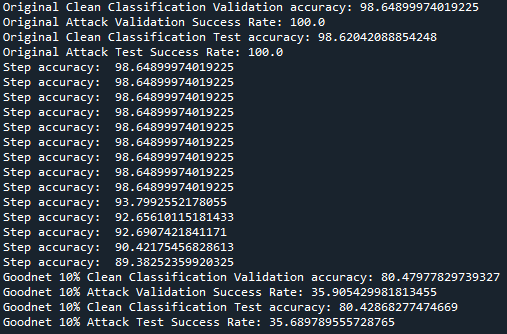
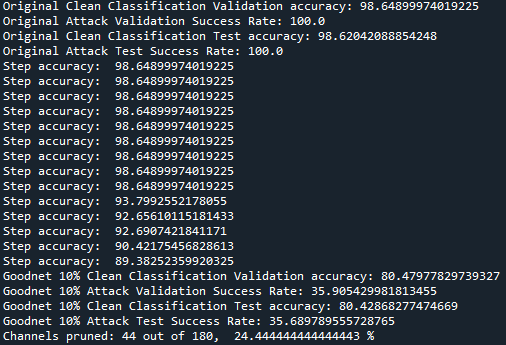
Add files via upload

diff --git a/goodnet.py b/goodnet.py
@@ -87,6 +87,8 @@ def main():
             del(layer_curr)
             del(labels_curr)
             it_2 = it_2-1
+            if it_2 == -1:
+                break
         cl_label2 = np.argmax(gn_x2.predict(cl_x_test), axis=1)
         clean_accuracy2 = np.mean(np.equal(cl_label2, cl_y_test))*100
         print(f"Goodnet {goodnet_percentage}% Clean Classification Validation accuracy: {clean_accuracy2}")
@@ -115,6 +117,7 @@ def main():
         it_10 = 0
         layer_ind = 7 #if you would like to change the starting layer, you can change this to 5
         pad = 0
+        channels = 0
         if goodnet_percentage == 4:
            pad = 0.14
         if goodnet_percentage ==10:
@@ -134,6 +137,7 @@ def main():
             asr10 = np.mean(np.equal(pred, bd_y_test))*100
             if asr10<100 and temp_acc >= (clean_accuracy-goodnet_percentage):
                 gn_x10.layers[layer_ind].set_weights(layer_curr)
+                channels = channels + 1
             labels_curr = np.argmax(gn_x10.predict(cl_x_test), axis=1)
             acc_curr = np.mean(np.equal(labels_curr, cl_y_test))*100
             #print accuracy every 10 steps, see how the final model is doing
@@ -173,6 +177,7 @@ def main():
         asr10 = np.mean(np.equal(pred, bd_y_final))*100
         print(f"Goodnet {goodnet_percentage}% Attack Test Success Rate: {asr10}")
         gn_x10.save(model_path.format(perc = goodnet_percentage))
+        print(f"Channels pruned: {channels} out of 180, ", (channels/180)*100,"%")
         del(gn_x10)
     
 if __name__ == '__main__':
